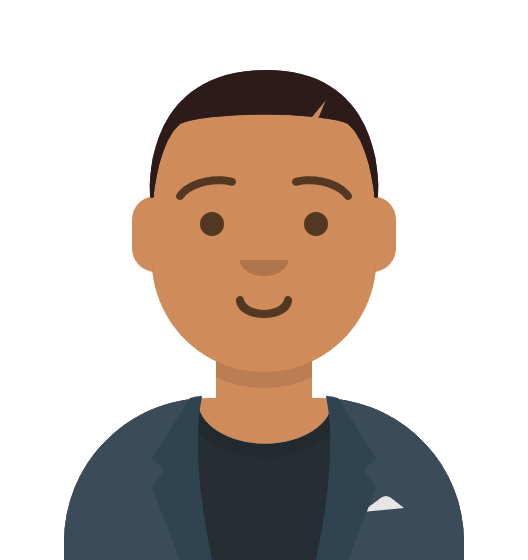
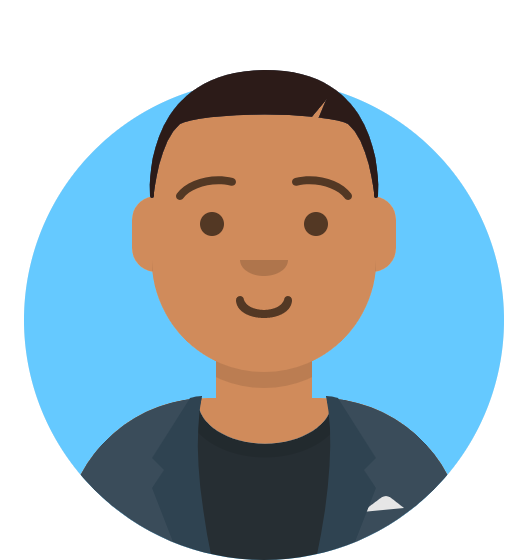
sent message notification

Changed region(s): [[0.5455, 0.1518, 0.9697, 1.0], [0.0303, 0.1518, 0.4545, 1.0]]

diff --git a/client/src/components/SideBar/index.js b/client/src/components/SideBar/index.js
@@ -14,7 +14,7 @@ import ButtonComponent from '../../components/Button'
 import ImageCard from '../../components/ImageCard'
 
 // Import image and resume docs
-import imageSrc from '../../resources/larry.png'
+import imageSrc from '../../resources/avatar.png'
 import resume from '../../resources/LarryAgbana.pdf'
 
 // Destructure Layout to access the Sider component
@@ -33,18 +33,16 @@ function SideBar () {
   const [selected, setSelected] = useState('1')
   const [isChecked, setIsChecked] = useState(true)
 
-
   async function handleToggle (event) {
     setIsChecked(event)
-    isChecked === false ? await dispatch({ type: 'dark' }) : await dispatch({ type: 'light' })
+    isChecked === false
+      ? await dispatch({ type: 'dark' })
+      : await dispatch({ type: 'light' })
   }
-
 
   const bkColor = state[state.length - 1].backgroundColor
   const buttonColor = state[state.length - 1].buttonColor
   const menuColor = state[state.length - 1].menuColor
-
- 
 
   return (
     <Sider
@@ -61,7 +59,7 @@ function SideBar () {
         left: 0,
         textAlign: 'center',
         fontDisplay: 'swap',
-        backgroundColor: bkColor, 
+        backgroundColor: bkColor
       }}
     >
       <ImageCard
@@ -69,7 +67,7 @@ function SideBar () {
         alt='Larry Agbana Profile Image'
         onClick={scrollToTop}
       />
-      <div style={{marginBottom: '1vw'}}>
+      <div style={{ marginBottom: '1vw' }}>
         <Switch
           checkedChildren='dark'
           unCheckedChildren='light'
@@ -77,9 +75,13 @@ function SideBar () {
           size='default'
           onClick={handleToggle}
         />
-      </div >
+      </div>
       <Router>
-        <Menu style={{backgroundColor: bkColor}} mode='inline' selectedKeys={[selected]}>
+        <Menu
+          style={{ backgroundColor: bkColor }}
+          mode='inline'
+          selectedKeys={[selected]}
+        >
           <Menu.Item key='1'>
             <Link
               activeClass='active'
@@ -89,7 +91,7 @@ function SideBar () {
               offset={-70}
               duration={500}
               onClick={() => setSelected('1')}
-              style={{color: menuColor, fontWeight: 600, fontSize: '1rem'}}
+              style={{ color: menuColor, fontWeight: 600, fontSize: '1rem' }}
             >
               About
             </Link>
@@ -108,7 +110,7 @@ function SideBar () {
               Experience
             </Link>
           </Menu.Item> */}
-          <Menu.Item key='3' >
+          <Menu.Item key='3'>
             <Link
               activeClass='active'
               to='/education'
@@ -117,12 +119,12 @@ function SideBar () {
               offset={-70}
               duration={500}
               onClick={() => setSelected('3')}
-              style={{color: menuColor, fontWeight: 600, fontSize: '1rem'}}
+              style={{ color: menuColor, fontWeight: 600, fontSize: '1rem' }}
             >
               Education
             </Link>
           </Menu.Item>
-          <Menu.Item key='4' >
+          <Menu.Item key='4'>
             <Link
               activeClass='active'
               to='/projects'
@@ -131,7 +133,7 @@ function SideBar () {
               offset={-70}
               duration={500}
               onClick={() => setSelected('4')}
-              style={{color: menuColor, fontWeight: 600, fontSize: '1rem'}}
+              style={{ color: menuColor, fontWeight: 600, fontSize: '1rem' }}
             >
               Projects & Skills
             </Link>
@@ -150,7 +152,7 @@ function SideBar () {
               Blog
             </Link>
           </Menu.Item> */}
-          <Menu.Item key='6' >
+          <Menu.Item key='6'>
             <Link
               activeClass='active'
               to='/contact'
@@ -159,7 +161,7 @@ function SideBar () {
               offset={-70}
               duration={500}
               onClick={() => setSelected('6')}
-              style={{color: menuColor, fontWeight: 600, fontSize: '1rem'}}
+              style={{ color: menuColor, fontWeight: 600, fontSize: '1rem' }}
             >
               Contact
             </Link>

diff --git a/client/src/sections/ContactSection/index.js b/client/src/sections/ContactSection/index.js
@@ -3,7 +3,7 @@ import { useSectionContext, useWindowSize } from '../../utils/GlobalState'
 import axios from 'axios'
 import 'antd/dist/antd.css'
 import ContactList from '../../data/contact'
-import { Form, Input, Space, Button } from 'antd'
+import { Form, Input, Space, Button, notification } from 'antd'
 const { TextArea } = Input
 
 export function ContactSection (props) {
@@ -13,9 +13,8 @@ export function ContactSection (props) {
   const buttonColor = state[state.length - 1].buttonColor
   const headerColor = state[state.length - 1].headerColor
 
- const [width, height] = useWindowSize()
+  const [width] = useWindowSize()
   const tabletBreakpoint = 768
-
 
   const sectionPadding =
     width === tabletBreakpoint
@@ -26,9 +25,18 @@ export function ContactSection (props) {
 
   const [form] = Form.useForm()
 
-  
+  // Send a notification when a user has successfully sent an email
+  const openNotification = type => {
+    notification[type]({
+      message: 'New Message',
+      description:
+        "You have successfully sent a new message, I'll respond within 24 hours 😀"
+    })
+  }
+
   const onFinish = values => {
     axios.post('/email', values).then(res => {
+      openNotification('success')
       form.resetFields()
     })
   }
@@ -226,8 +234,13 @@ export function ContactSection (props) {
                 />
               </Form.Item>
               <Form.Item wrapperCol={{ ...layout.wrapperCol, offset: 8 }}>
-                <Button style={styling.button} shape='round' size='large' htmlType='submit'>
-                Send Message
+                <Button
+                  style={styling.button}
+                  shape='round'
+                  size='large'
+                  htmlType='submit'
+                >
+                  Send Message
                 </Button>
               </Form.Item>
             </Form>

diff --git a/client/src/data/projects.js b/client/src/data/projects.js
@@ -1,4 +1,5 @@
 import React from 'react'
+import vogi from '../resources/vogi.png'
 import portfolio from '../resources/portfolio.png'
 import travelbook from '../resources/travelbook.PNG'
 import goodsamaritan from '../resources/good-samaritan.PNG'
@@ -8,6 +9,18 @@ import weather from '../resources/weatherdashboard.PNG'
 import workscheduler from '../resources/work-scheduler.png'
 
 export default [
+  {
+    source: vogi,
+    techStack: ['React', 'Node.js', 'Express', 'MongoDB', 'Mongoose', 'Ant Design', 'GitHub API', 'SendGrid API'],
+    description: 'vogi webiste',
+    deployed: 'https://www.vogi.ca/',
+    github: 'https://github.com/Lagbana/vogi',
+    demoImage:
+      'https://content.screencast.com/users/Larry2846/folders/Default/media/33d02635-dc52-4cf4-bf09-64d22faefde2/LWR_Recording.png',
+    demoVideo: 'https://www.screencast.com/t/aQ4JjiD8Bsy5',
+    title: `vogi`,
+    content: 'A project management app that provides a user friendly dashboard where users can create projects, add project features, and track project completion progress by integrating GitHub API.'
+  },
   {
     source: portfolio,
     techStack: ['React', 'Node.js', 'Express', 'Ant Design'],

diff --git a/client/src/sections/AboutSection/index.js b/client/src/sections/AboutSection/index.js
@@ -74,7 +74,7 @@ export function AboutSection (props) {
             </address>
 
             <p>
-              A full stack web developer that strives to balance technical
+              A full stack software developer that strives to balance technical
               excellence with flawless user experience in order to create
               products people love and use. I believe in writing clean modular
               code and have embraced test driven and agile development to

diff --git a/client/src/components/ImageCard/style.css b/client/src/components/ImageCard/style.css
@@ -1,6 +1,7 @@
 .img-block {
   width: 100%;
-  height: auto;
+  height: 160px;
+  /* height: auto; */
   display: block;
   position: relative;
   overflow: hidden;
@@ -11,6 +12,8 @@
 }
 
 .img-block img {
-  height: 100%;
-  width: auto;
+  /* height: 100%; */
+  /* width: auto; */
+  width: 160px;
+  height: 160px;
 }
